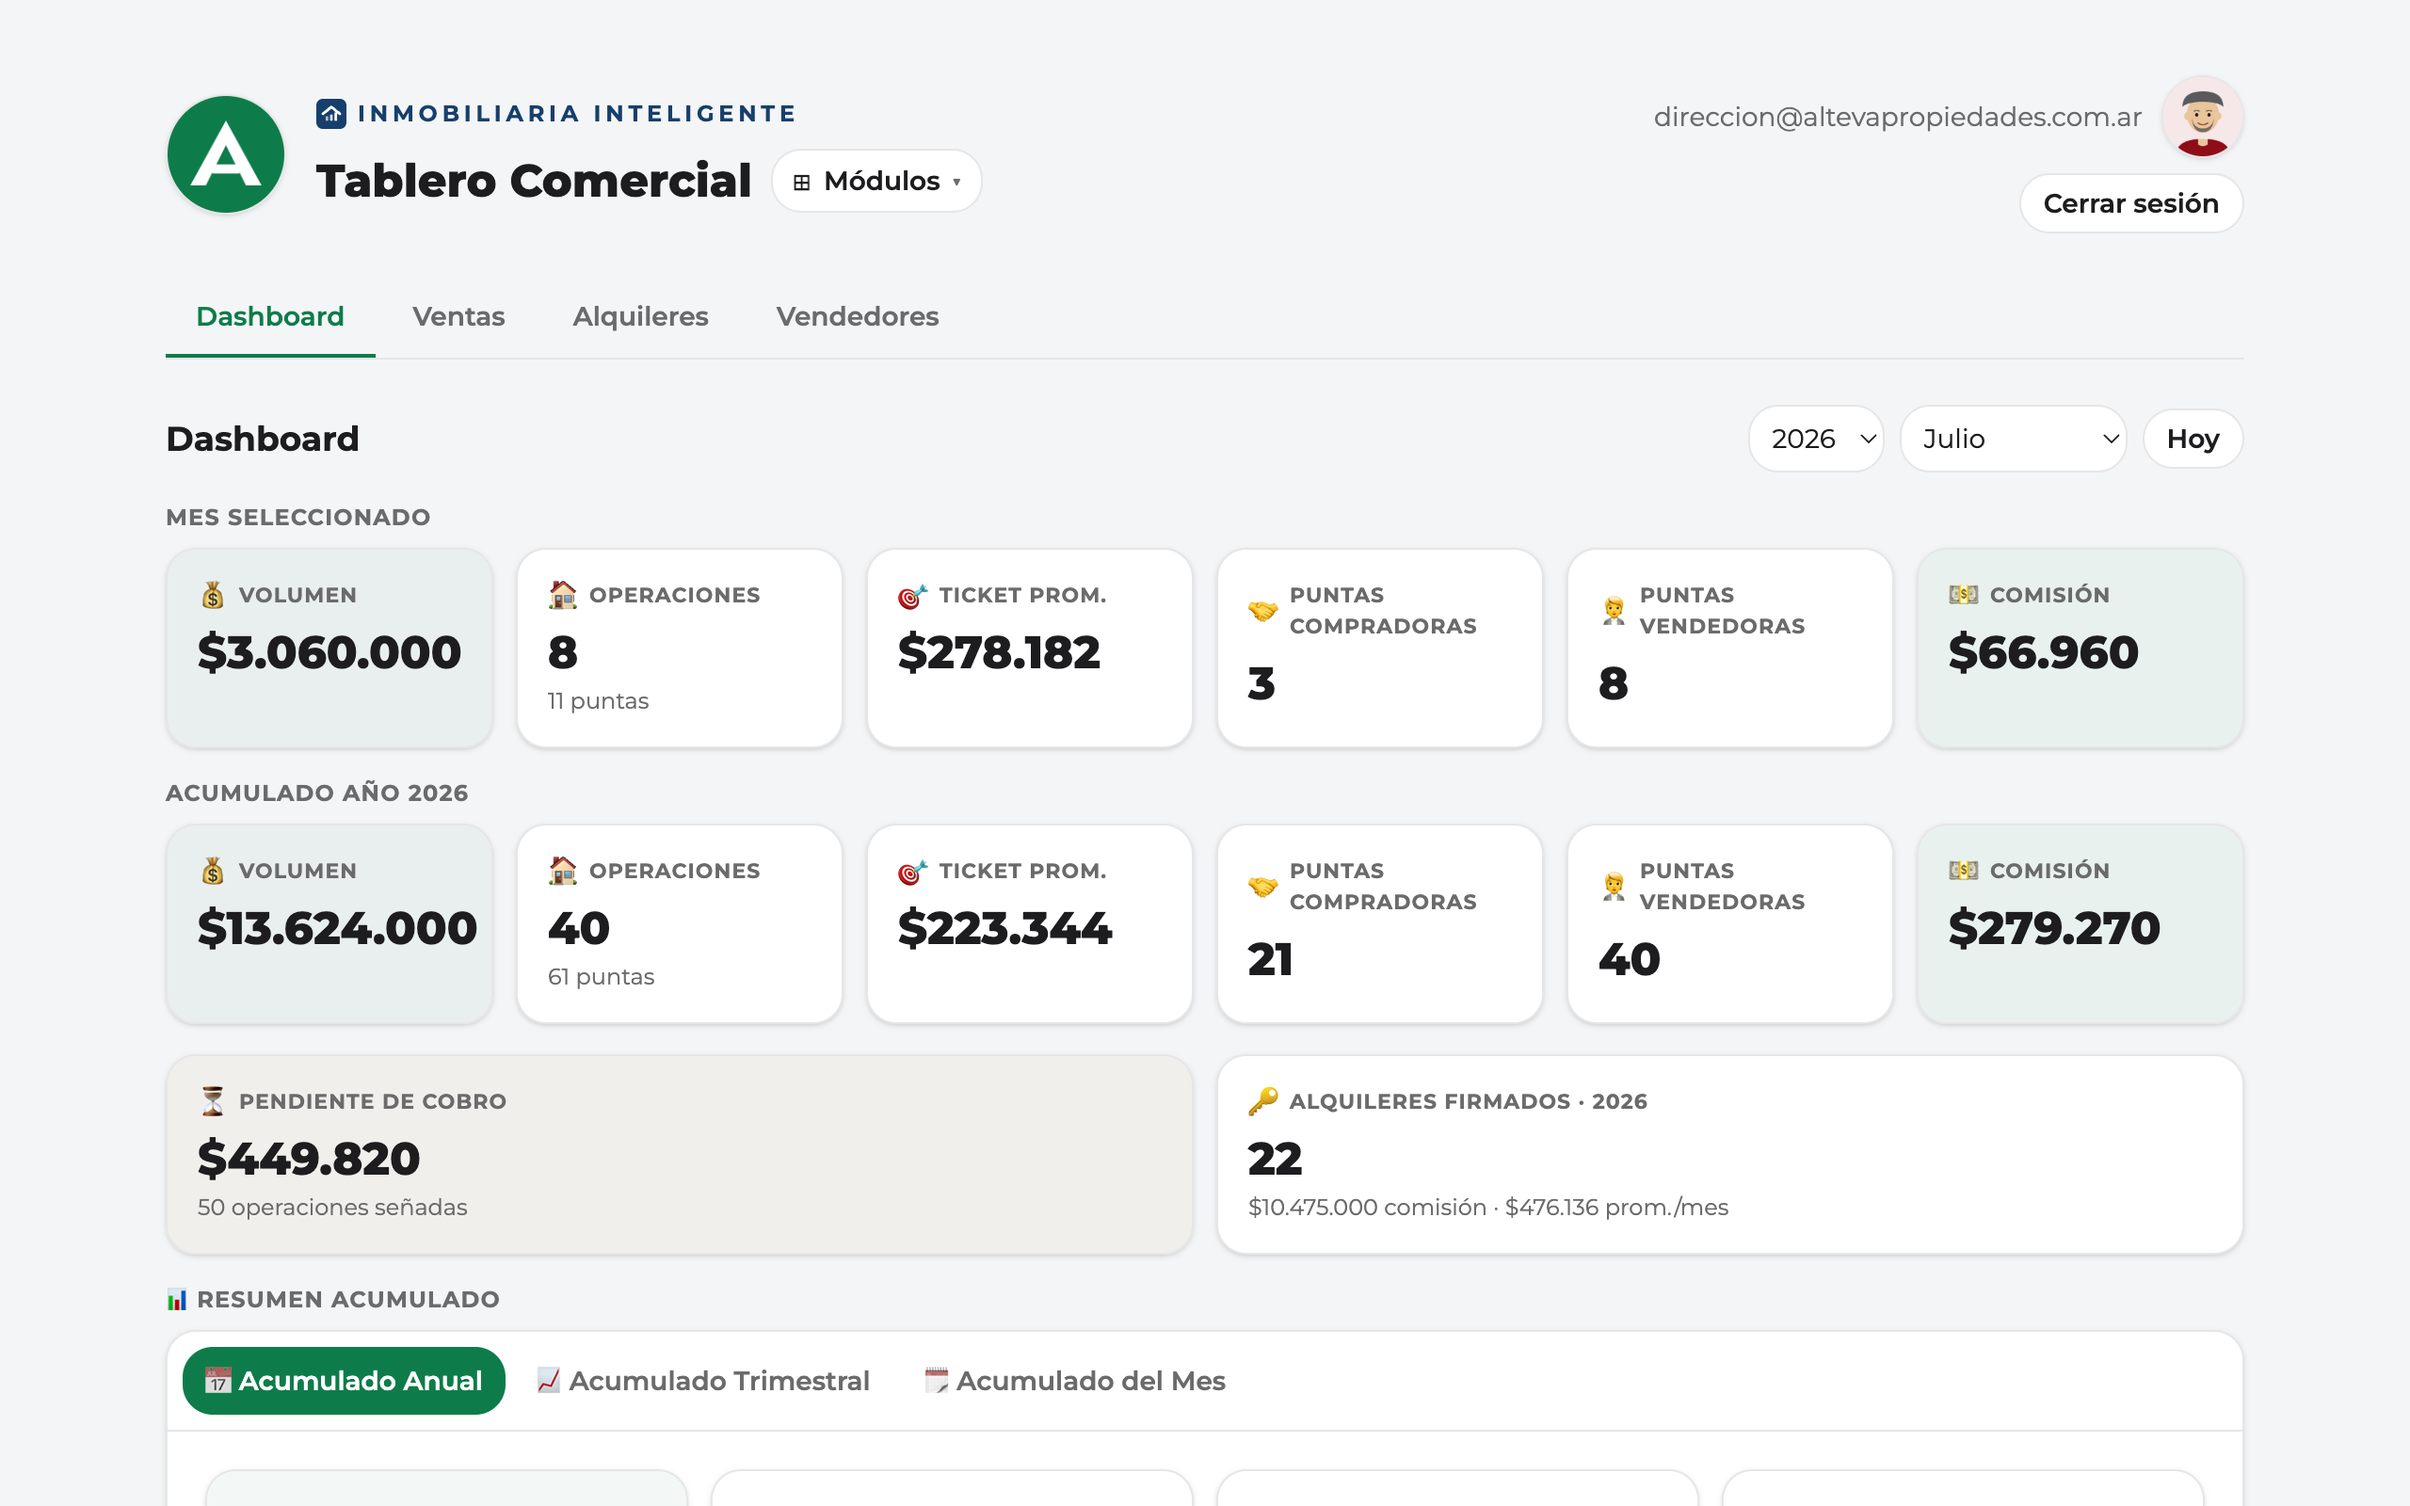
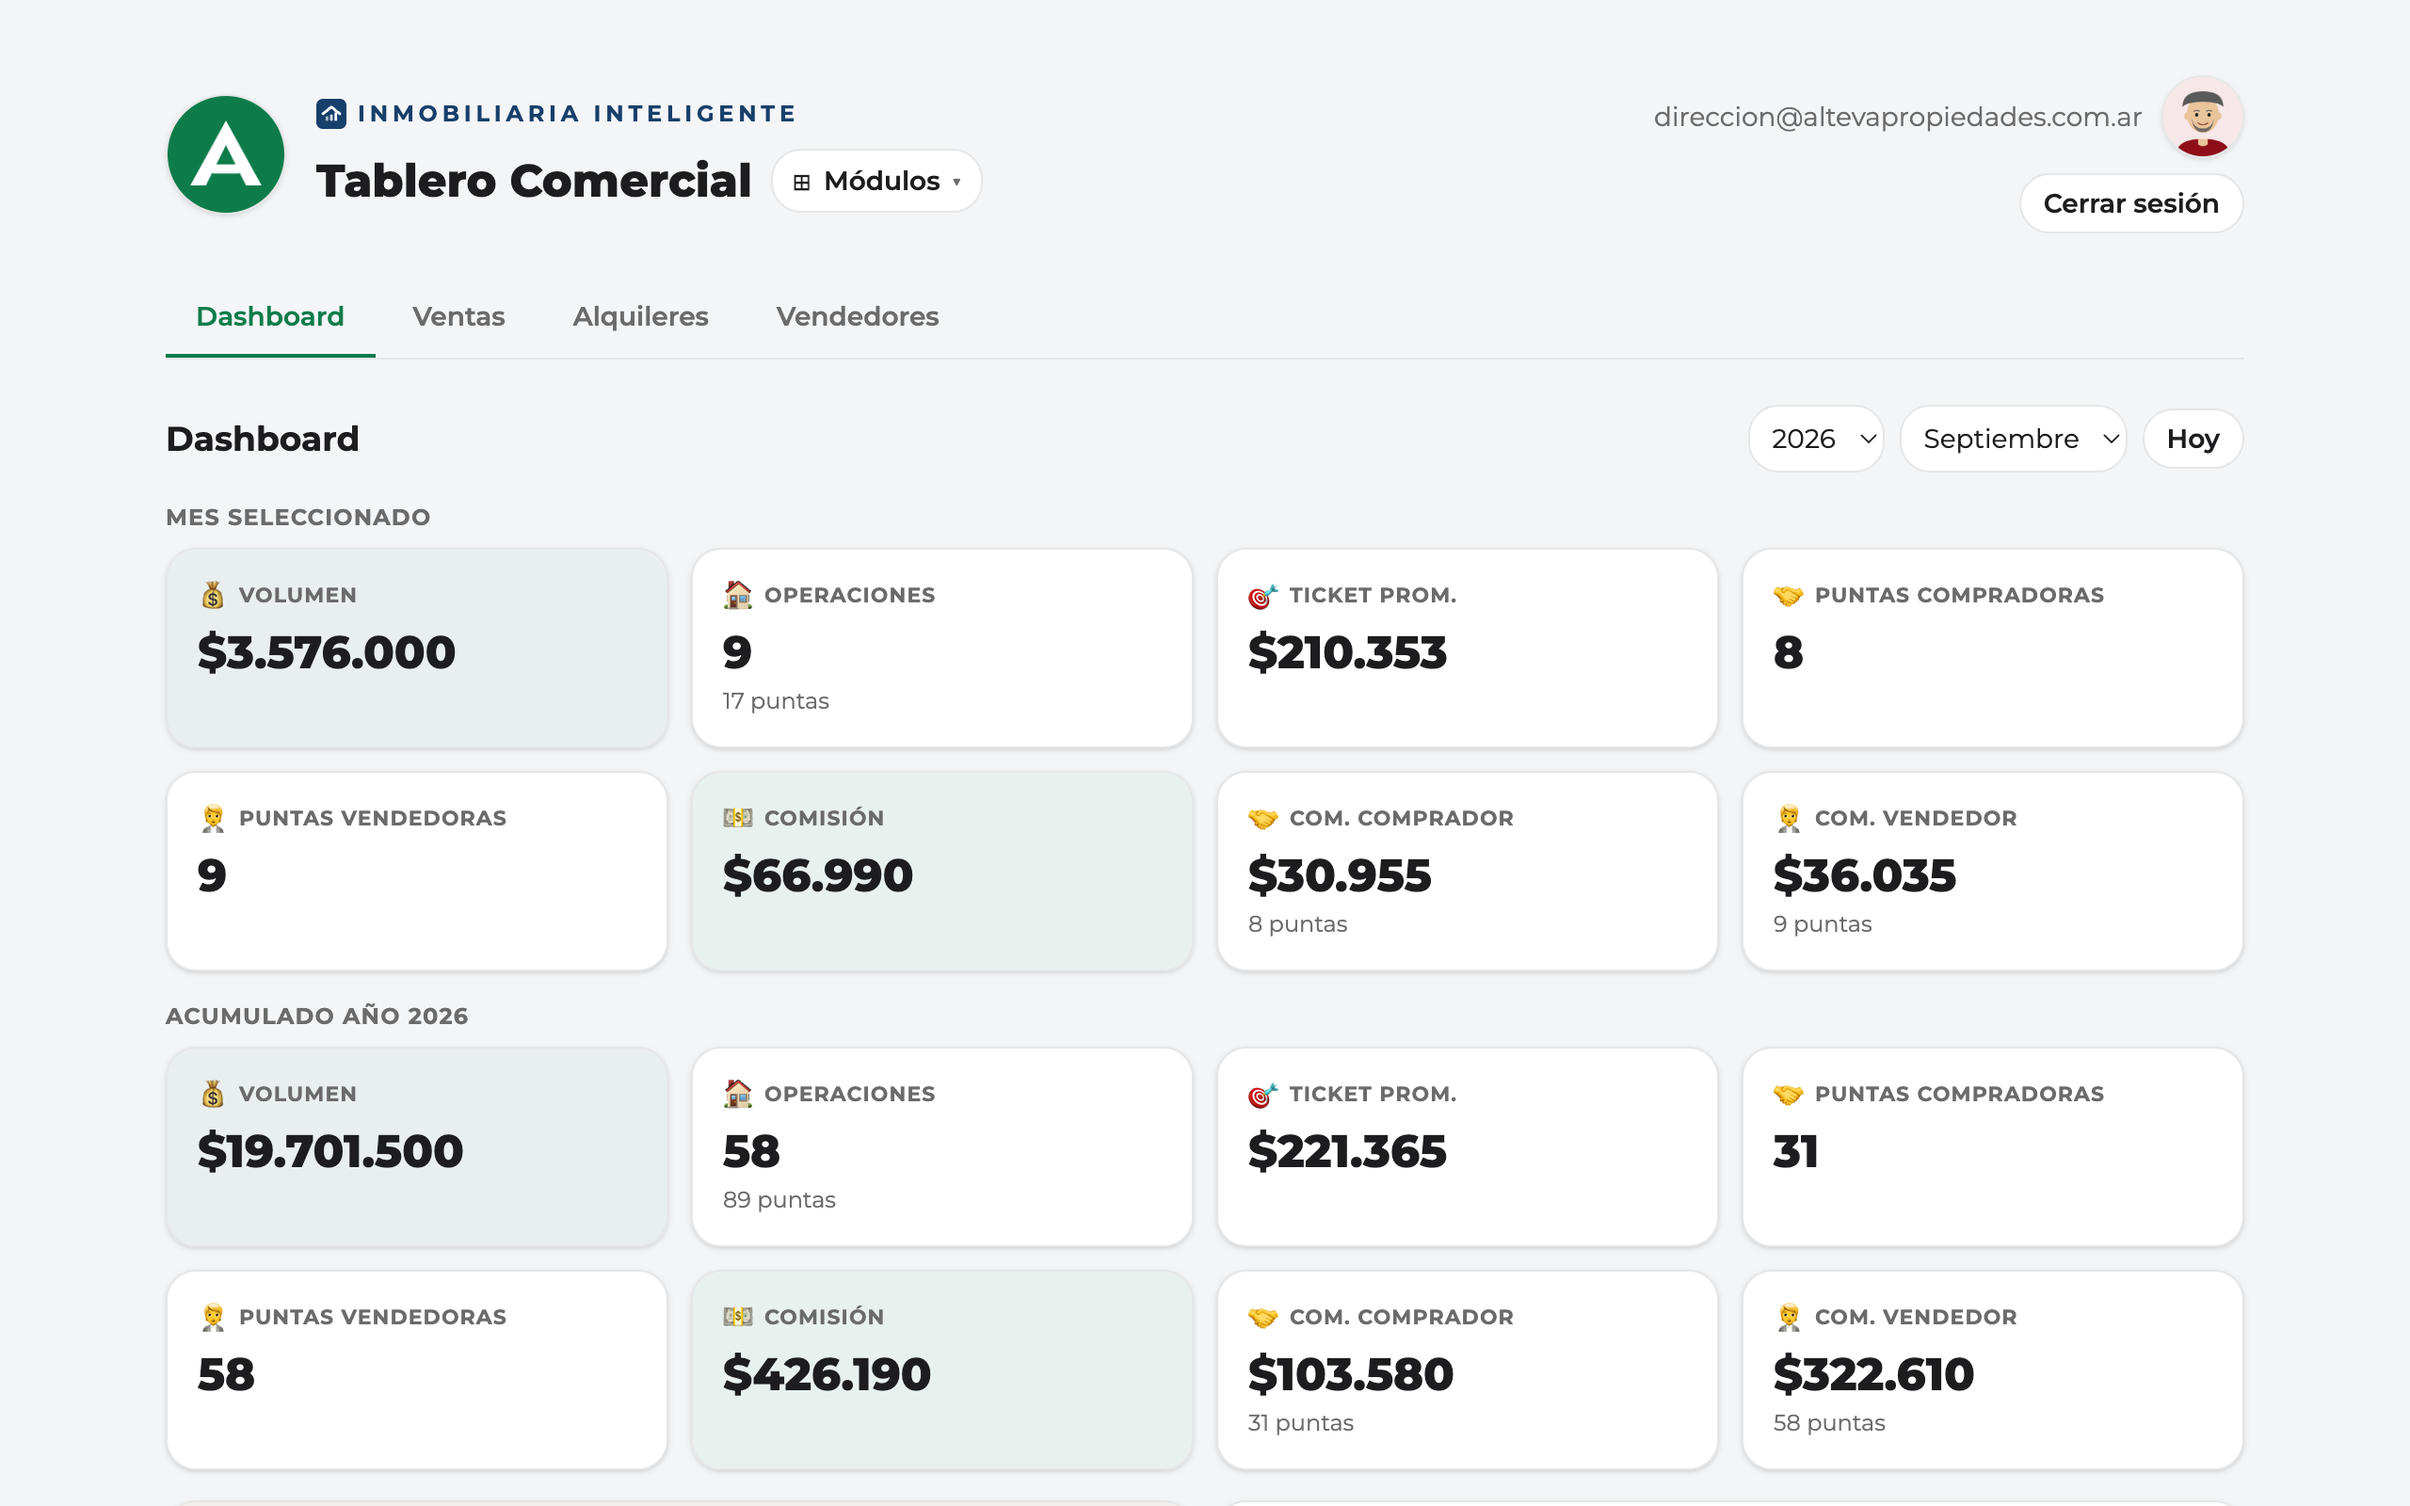
chore(comercial): la presentación y las capturas, al día con septiembre
Las láminas 1 y 2 suman lo que salió desde agosto: ranking por año,
trimestre o mes, comisión por punta, alquileres y la ficha que cambia
según el tipo de propiedad. Las capturas se rehicieron sobre la
demostración puesta al día el 5/10: el tablero muestra septiembre y el
protocolo de ejemplo pasa a Av. Carballo 230, porque Alsina 3841 quedó
archivado como vendido.

diff --git a/scripts/comercial/presentacion.js b/scripts/comercial/presentacion.js
@@ -210,15 +210,21 @@ LAMINAS.push(function laminaQueEs() {
    */
   const DEL_TABLERO = [
     'Facturación anual, trimestral y mensual, de la inmobiliaria y de cada vendedor',
-    'Ranking de vendedores, ticket promedio, operaciones y puntas',
-    'La comisión generada, y qué parte todavía no entró en caja',
+    'Ranking de vendedores por año, trimestre o mes: operaciones, puntas y ticket',
+    'La comisión de cada punta, comprador y vendedor, y qué falta cobrar',
     'Operaciones señadas: el flujo de caja que viene',
-    'Contratos de alquileres firmados',
+    'Alquileres: contratos firmados, valor promedio y comisión de cada mes',
   ];
+  /*
+   * Desde septiembre de 2026 la ficha cambia según la tipología: a un terreno
+   * no se le preguntan dormitorios. Es lo primero que nota un tasador, así que
+   * va en la lámina; el «motivo cuando no se capta» se juntó con el informe
+   * para no pasar de tres renglones — la lámina ya llega al borde de abajo.
+   */
   const DEL_TASADOR = [
     'Cada tasación con su valor, su estado y el vendedor a cargo',
-    'Cuando no se capta, queda escrito el motivo',
-    'El informe que su vendedor le deja al propietario',
+    'La ficha se adapta al tipo: casa, departamento, PH, terreno, local u oficina',
+    'El informe para el propietario, y el motivo cuando no se capta',
   ];
 
   bloque(s, 0.5, 2.4, 5.3, 'Tablero Comercial');
@@ -228,7 +234,10 @@ LAMINAS.push(function laminaQueEs() {
 
   captura(s, 'tablero-kpis.png', { x: 6.15, y: 2.62, w: 3.35, h: 2.09 });
   // Un renglón, no dos: con dos, la segunda línea terminaba debajo del «1 / 5».
-  s.addText('El mes y el año, y lo que todavía falta cobrar.', {
+  // Desde la comisión por punta (septiembre de 2026) el tablero tiene dos filas
+  // más de tarjetas y «Pendiente de cobro» quedó fuera del recorte: el pie
+  // describe lo que la captura muestra, no lo que hay más abajo.
+  s.addText('El mes y el año, con la comisión de cada punta.', {
     x: 6.15, y: 4.84, w: 3.35, h: 0.3, margin: 0,
     fontFace: F, fontSize: 9, color: GRIS,
   });
@@ -255,7 +264,7 @@ LAMINAS.push(function laminaParaQue() {
   const puntos = [
     ['Cómo viene el año', 'Proyección anual y trimestral, contra el mismo período del año pasado.'],
     ['Dónde está el margen', 'La comisión real por operación y por punta, no solamente el volumen.'],
-    ['Quién produce', 'Operaciones, puntas y comisión de cada vendedor, en un mismo ranking.'],
+    ['Quién produce', 'Puntas y comisión de cada vendedor: en el año, el trimestre o el mes.'],
     ['Toda la captación junta', 'Cada tasación con su estado y su responsable, sin planillas paralelas.'],
     ['La tasa de captación', 'Cuántas tasaciones terminan en captación, y por qué se pierden las otras.'],
   ];
